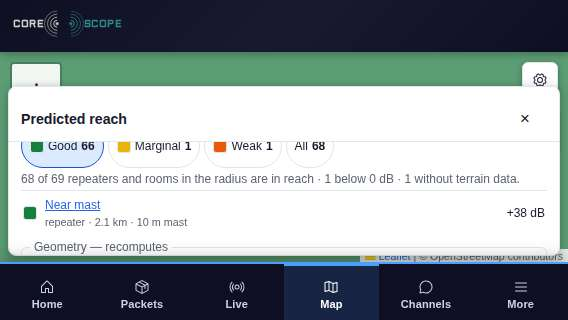
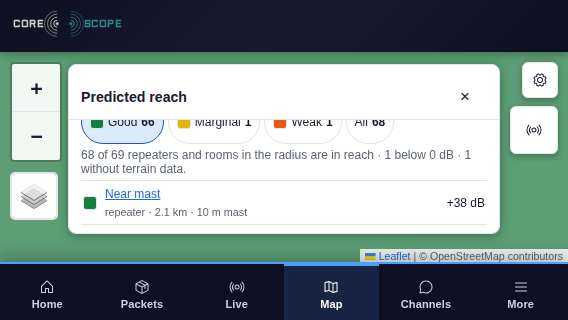
fix(map): landscape reach sheet stands between the map controls (#941)
At 640x360 the 80% full-width sheet covered zoom-out and the reach
toggle: the map is ~250 px tall and the controls reach down to y=218, so
no sheet height clears them. In a touch landscape phone under 480 px the
sheet now stands between the control columns (68 px in from each side,
30 px up, as on desktop). Its list keeps one full row at the floor (45 px
with the 1 px border). The bound is 479 px and touch only, so a 640x480
window and a mouse at 640x360 keep the portrait rule.

The E2E taps (elementFromPoint) each map control and the nav with the
list open, and asserts the portrait rule at portrait sizes, 640x480
touch and 640x360 mouse. Mutants killed: full-width sheet, sheet at
max-height 100%, block widened to 900px, list floor 44px.

Changed region(s): [[0.0, 0.1875, 0.9877, 0.8125], [0.4789, 0.3438, 0.5986, 0.4062], [0.6285, 0.375, 0.6884, 0.4062]]

diff --git a/test-issue-941-m2-nodes-in-reach-e2e.js b/test-issue-941-m2-nodes-in-reach-e2e.js
@@ -31,6 +31,12 @@
  *      node rows are on screen and on top, a row is one tap target of at
  *      least 44 px, a row given keyboard focus is not left under the
  *      sheet's sticky head, and a tap on a row's margin opens the node;
+ *      landscape, with the list open the sheet stands clear of the zoom,
+ *      layers and reach buttons, the map-controls gear, the attribution and
+ *      the bottom nav (a tap at each one's centre lands on it), and the
+ *      list shows at least one full row;
+ *      portrait sizes, a 640×480 touch window and a mouse at 640×360 keep
+ *      the portrait rule (8 px in, 46% of the map);
  *   5. no console error, and no request leaves localhost.
  *
  * SHOTS_DIR, when set, receives small JPEG screenshots.
@@ -428,6 +434,30 @@ function rasterFor(c, radiusKm) {
     await page.waitForTimeout(800); // past the request debounce
   }
 
+  /* controlsClear lists what the open sheet gets in the way of: each map
+   * control and the bottom nav whose centre does not hit itself, or whose
+   * box meets the sheet's; and a sheet that reaches the top edge of the map
+   * (it keeps 8 px of map above it). Empty when it is clear of all. */
+  function controlsClear(page) {
+    return page.evaluate(() => {
+      const sheet = document.querySelector('[data-testid="reach-panel"]').getBoundingClientRect();
+      const map = document.querySelector('#leaflet-map').getBoundingClientRect();
+      const bad = [];
+      if (sheet.top < map.top + 8) bad.push('sheet top ' + Math.round(sheet.top) + ' < map top ' + Math.round(map.top) + ' + 8');
+      const SEL = ['.leaflet-control-zoom-in', '.leaflet-control-zoom-out', '.leaflet-control-layers-toggle',
+        '[data-testid="map-reach-toggle"]', '.map-controls-toggle', '.leaflet-control-attribution a', '.bottom-nav'];
+      SEL.forEach((sel) => {
+        const e = document.querySelector(sel);
+        if (!e) { bad.push(sel + ' missing'); return; }
+        const r = e.getBoundingClientRect();
+        const hit = document.elementFromPoint(r.left + r.width / 2, r.top + r.height / 2);
+        if (!hit || !(hit === e || e.contains(hit))) bad.push(sel + ' centre hits ' + (hit && (hit.getAttribute('data-testid') || hit.className || hit.tagName)));
+        if (r.left < sheet.right && r.right > sheet.left && r.top < sheet.bottom && r.bottom > sheet.top) bad.push(sel + ' overlaps the sheet');
+      });
+      return bad;
+    });
+  }
+
   const PHONES = [
     { theme: 'light', width: 375, height: 560 }, { theme: 'dark', width: 375, height: 560 },
     { theme: 'light', width: 360, height: 640 }, { theme: 'dark', width: 360, height: 640 },
@@ -464,6 +494,16 @@ function rasterFor(c, radiusKm) {
         // The list is a short window of its own, wholly on screen in the sheet.
         await touchScrollTo(page, cdp, '[data-testid="reach-nir-list"]', 8);
         await shot(page, `941-m2-nodes-phone-list-${theme}-${width}x${height}.jpg`);
+        // One full row is the least the list shows: 44 px of content, not
+        // counting its 1 px top border.
+        const listBox = await page.evaluate(() => { const l = document.querySelector('[data-testid="reach-nir-list"]'); return { client: l.clientHeight, scroll: l.scrollHeight }; });
+        assert(listBox.client >= 44, 'the list shows less than one row ' + JSON.stringify(listBox));
+        // Landscape: the sheet stands clear of every map control and the
+        // nav, and a tap at each one's centre lands on it.
+        if (width > height) {
+          const clear = await controlsClear(page);
+          assert(clear.length === 0, 'with the list open, the sheet covers ' + JSON.stringify(clear));
+        }
 
         // With the list open, the power slider is reached by touch on the
         // sheet, and it is not pushed far down by the list.
@@ -519,6 +559,38 @@ function rasterFor(c, radiusKm) {
         await page.touchscreen.tap(tapAt.x, tapAt.y);
         await page.waitForFunction(() => location.hash.indexOf('#/nodes/' + '1'.repeat(64)) === 0, null, { timeout: 5000 });
         noNetwork(rec);
+      } finally { await ctx.close(); }
+    });
+  }
+
+  // The landscape-phone rule is for touch landscape phones under 480 px
+  // high only: portrait phones keep the sheet along the bottom (8 px in from
+  // each side, 46% of the map), and so do a 640x480 touch window (the bound
+  // is 479) and a mouse at 640x360.
+  const KEEP_PORTRAIT = [
+    { width: 375, height: 560, touch: true }, { width: 360, height: 640, touch: true }, { width: 320, height: 568, touch: true },
+    { width: 640, height: 480, touch: true }, { width: 640, height: 360, touch: false },
+  ];
+  for (const { width, height, touch } of KEEP_PORTRAIT) {
+    await step(`${width}×${height}${touch ? ' touch' : ' mouse'}: the sheet keeps the portrait rule (8 px in, 46% of the map)`, async () => {
+      const { ctx, page } = await newCtx({ viewport: { width, height }, touch, reach: PHONE_REACH });
+      try {
+        await page.goto(`${BASE}/#/map?lat=${AARHUS.lat}&lon=${AARHUS.lon}&zoom=10`, { waitUntil: 'domcontentloaded' });
+        await page.waitForSelector('#leaflet-map[data-loaded="true"]', { timeout: 30000 });
+        await page.waitForSelector('[data-testid="map-reach-toggle"]', { timeout: 15000 });
+        if (touch) await page.tap('[data-testid="map-reach-toggle"]'); else await page.click('[data-testid="map-reach-toggle"]');
+        const box = await page.locator('#leaflet-map').boundingBox();
+        if (touch) await page.touchscreen.tap(box.x + box.width / 2, box.y + box.height / 3);
+        else await page.mouse.click(box.x + box.width / 2, box.y + box.height / 3);
+        await waitPanel(page);
+        const g = await page.evaluate(() => {
+          const sheet = document.querySelector('[data-testid="reach-panel"]');
+          const r = sheet.getBoundingClientRect();
+          const cs = getComputedStyle(sheet);
+          return { left: r.left, right: innerWidth - r.right, maxHeight: cs.maxHeight, list: getComputedStyle(document.querySelector('[data-testid="reach-nir-list"]')).maxHeight };
+        });
+        assert(g.left === 8 && g.right === 8 && g.maxHeight === '46%', 'not the portrait rule ' + JSON.stringify(g));
+        assert(!/^max\(45px/.test(g.list) && g.list !== 'none', 'the list took the landscape window ' + g.list);
       } finally { await ctx.close(); }
     });
   }

diff --git a/public/style.css b/public/style.css
@@ -6868,16 +6868,20 @@ body.embed .warmup-pills { display: none !important; }
      head (the sheet is 46% of the map), so a thumb's height of the sheet
      always shows beside it to swipe the sheet by. */
   .reach-nir-list { max-height: clamp(96px, calc(46vh - 150px), 220px); }
-  /* Landscape: the sheet at 46% leaves a body of about 60 px under the
-     head, shorter than the list's floor, so the list covered it and every
-     swipe scrolled the list. A taller sheet, and a list of what is left of
-     its body less a strip (about a chip's height and more) of sheet to
-     swipe by (the sheet is 80% of the map, which is the viewport less
-     about 107 px; the head is 55 px; the strip about 80 px). A row
-     (44 px) is the least the list shows. */
-  @media (max-height: 480px) {
-    .reach-panel { max-height: 80%; }
-    .reach-nir-list { max-height: max(44px, calc(80vh - 221px)); }
+  /* Landscape phone (touch, wider than tall, under 480 px high): the map is
+     only about 250 px tall, so no sheet height clears the map controls
+     (zoom, layers, the toggles reach down to y=218 at 640x360) and a
+     full-width sheet always covers some. So the sheet stands between the
+     two control columns, as on desktop (68 px in from each side, 30 px up
+     from the bottom, clear of the attribution), and may use the map's
+     height less its top margin. The list is what is left of its body less
+     a strip (about 80 px) of sheet to swipe by: the sheet is the viewport
+     less 150 px, the head 55 px. One row is the least it shows: 44 px and
+     the list's 1 px top border. The bound is 479 px, so a 640x480 window is
+     not caught, and touch only: a mouse has no swipe to trap. */
+  @media (max-height: 479px) and (orientation: landscape) and (pointer: coarse) {
+    .reach-panel { left: 68px; right: 68px; bottom: 30px; max-height: calc(100% - 42px); }
+    .reach-nir-list { max-height: max(45px, calc(100vh - 285px)); }
   }
   /* The head and its × stay at the top of the scrolled sheet; it covers
      the sheet's top padding so nothing scrolls past above it. */
